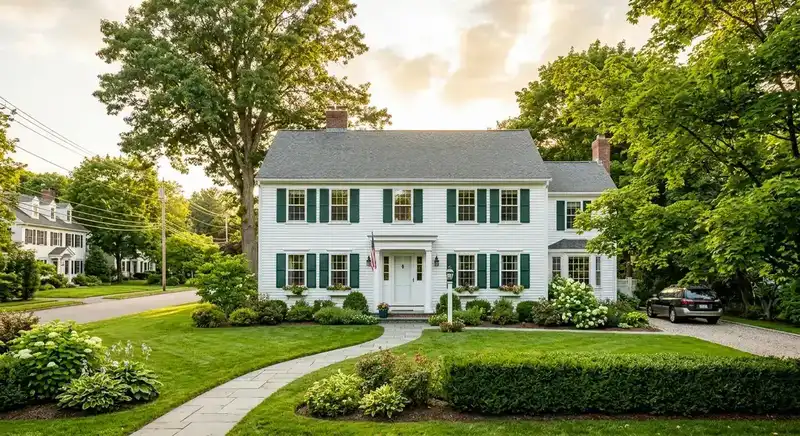
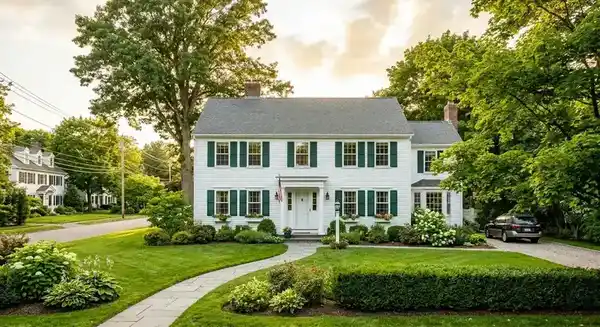
Perf round 4: drop font preloads, lazy-load form JS, halve mobile hero
- Remove font preloads from <head> to free bandwidth for hero image on
  slow 4G (fonts still load via @font-face with font-display: swap)
- Lazy-load diagnostic-form.js via IntersectionObserver (31KB below-fold
  script no longer competes with initial page resources)
- Compress mobile hero from 72KB to 36KB (600w Q40 — invisible at 25%
  opacity)
- Push GTM defer timeout from 4s to 8s to clear Lighthouse trace window

diff --git a/index.html b/index.html
@@ -47,20 +47,15 @@
   }
   </script>
 
-  <!-- Fonts (self-hosted) -->
-  <link rel="preload" as="font" type="font/woff2" href="/fonts/montserrat-latin.woff2" crossorigin>
-  <link rel="preload" as="font" type="font/woff2" href="/fonts/dm-serif-display-400.woff2" crossorigin>
-
   <!-- Hero LCP image preload (mobile-size for faster mobile LCP) -->
   <link rel="preload" as="image" type="image/webp" href="/Images/hero-maine-home.webp" fetchpriority="high"
-    imagesrcset="/Images/hero-maine-home-mobile.webp 800w, /Images/hero-maine-home.webp 1200w"
+    imagesrcset="/Images/hero-maine-home-mobile.webp 600w, /Images/hero-maine-home.webp 1200w"
     imagesizes="100vw">
 
   <link rel="stylesheet" href="/globals.css">
 
   <!-- Deferred JS (downloads in parallel, executes after DOM ready) -->
   <script src="/components.js" defer></script>
-  <script src="/diagnostic-form.js" defer></script>
   <style>
     /* ===== FLOATING CTA ===== */
     .floating-cta {
@@ -625,8 +620,8 @@
       'https://www.googletagmanager.com/gtm.js?id='+i+dl;f.parentNode.insertBefore(j,f);
       })(window,document,'script','dataLayer','GTM-K4ZZ5RK');
     }
-    if('requestIdleCallback' in window){requestIdleCallback(loadGTM,{timeout:4000})}
-    else{setTimeout(loadGTM,3500)}
+    if('requestIdleCallback' in window){requestIdleCallback(loadGTM,{timeout:8000})}
+    else{setTimeout(loadGTM,8000)}
   })();
   </script>
 </head>
@@ -644,7 +639,7 @@ height="0" width="0" style="display:none;visibility:hidden"></iframe></noscript>
 <!-- ===== HERO ===== -->
 <section class="hero">
   <img src="/Images/hero-maine-home.webp"
-       srcset="/Images/hero-maine-home-mobile.webp 800w, /Images/hero-maine-home.webp 1200w"
+       srcset="/Images/hero-maine-home-mobile.webp 600w, /Images/hero-maine-home.webp 1200w"
        sizes="100vw"
        alt="" class="hero-bg-img" width="1200" height="654" fetchpriority="high">
   <div class="container">
@@ -966,6 +961,21 @@ height="0" width="0" style="display:none;visibility:hidden"></iframe></noscript>
 <!-- ===== FOOTER ===== -->
 <div id="footer"></div>
 
-<!-- components.js and diagnostic-form.js loaded in <head> with defer -->
+<!-- Lazy-load diagnostic-form.js when form container nears viewport -->
+<script>
+(function(){
+  var f=document.querySelector('.diagnostic-form');
+  if(!f)return;
+  var o=new IntersectionObserver(function(e){
+    if(e[0].isIntersecting){
+      o.disconnect();
+      var s=document.createElement('script');
+      s.src='/diagnostic-form.js';
+      document.head.appendChild(s);
+    }
+  },{rootMargin:'300px'});
+  o.observe(f);
+})();
+</script>
 </body>
 </html>
